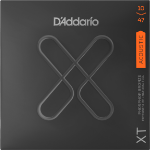
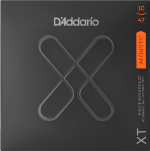
fix strings

diff --git a/data.js b/data.js
@@ -1,4 +1,4 @@
-var lastModified = new Date("2024-08-11T12:00:00+0000")
+var lastModified = new Date("2024-08-12T12:00:00+0000")
 var equipment_data = {}
 var equipment = [
    {
@@ -147,35 +147,6 @@ var equipment = [
    },
    {
       "category" : "Accessories",
-      "hide" : true,
-      "image" : true,
-      "instrument" : "guitar",
-      "link" : "https://www.ernieball.com/guitar-accessories/guitar-straps/comfort-collection-straps#P05328",
-      "make" : "Ernie Ball",
-      "model" : "Stretch Comfort (racer yellow)",
-      "notes" : [
-         "guitar",
-         "Flex Lock Strap Blocks"
-      ],
-      "type" : "Strap",
-      "year" : "2000s"
-   },
-   {
-      "category" : "Accessories",
-      "image" : true,
-      "instrument" : "guitar",
-      "link" : "https://www.ernieball.com/guitar-accessories/guitar-straps/polypro-guitar-straps#P04037",
-      "make" : "Ernie Ball",
-      "model" : "Polypro (black)",
-      "notes" : [
-         "guitar",
-         "Flex Lock Strap Blocks"
-      ],
-      "type" : "Strap",
-      "year" : "2000s"
-   },
-   {
-      "category" : "Accessories",
       "image" : true,
       "link" : "https://www.levysleathers.com/product/guitar-strap-m17ss-blk/",
       "make" : "Levys",
@@ -236,6 +207,35 @@ var equipment = [
       "model" : "PM14-DBR",
       "type" : "Strap",
       "year" : "2020"
+   },
+   {
+      "category" : "Accessories",
+      "image" : true,
+      "instrument" : "guitar",
+      "link" : "https://www.ernieball.com/guitar-accessories/guitar-straps/polypro-guitar-straps#P04037",
+      "make" : "Ernie Ball",
+      "model" : "Polypro (black)",
+      "notes" : [
+         "guitar",
+         "Flex Lock Strap Blocks"
+      ],
+      "type" : "Strap",
+      "year" : "2000s"
+   },
+   {
+      "category" : "Accessories",
+      "hide" : true,
+      "image" : true,
+      "instrument" : "guitar",
+      "link" : "https://www.ernieball.com/guitar-accessories/guitar-straps/comfort-collection-straps#P05328",
+      "make" : "Ernie Ball",
+      "model" : "Stretch Comfort (racer yellow)",
+      "notes" : [
+         "guitar",
+         "Flex Lock Strap Blocks"
+      ],
+      "type" : "Strap",
+      "year" : "2000s"
    },
    {
       "category" : "Accessories",
@@ -440,11 +440,35 @@ var equipment = [
    },
    {
       "category" : "Accessories",
+      "detail" : {
+         "Coating" : "XT",
+         "Gauge" : ".010, .014, .023, .030, .039, .047",
+         "Gauge Name" : "Extra Light",
+         "Material" : "92/8 Phosphor Bronze"
+      },
       "image" : true,
       "instrument" : "acoustic guitar",
       "link" : "https://www.daddario.com/products/guitar/acoustic-guitar/xt-phosphor-bronze/xtapb1047-xt-acoustic-phosphor-bronze-extra-light-10-47/",
       "make" : "D’Addario",
       "model" : "XTAPB1047",
+      "notes" : [
+         "acoustic guitar"
+      ],
+      "type" : "Strings"
+   },
+   {
+      "category" : "Accessories",
+      "detail" : {
+         "Coating" : "XT",
+         "Gauge" : ".012, .016, .024, .032, .042, .053",
+         "Gauge Name" : "Light",
+         "Material" : "92/8 Phosphor Bronze"
+      },
+      "image" : true,
+      "instrument" : "acoustic guitar",
+      "link" : "https://www.daddario.com/products/guitar/acoustic-guitar/xt-phosphor-bronze/xtapb1253-xt-acoustic-phosphor-bronze-light-12-532/",
+      "make" : "D’Addario",
+      "model" : "XTAPB1253",
       "notes" : [
          "acoustic guitar"
       ],
@@ -1435,14 +1459,14 @@ var equipment = [
       "make" : "Martin",
       "model" : "DX1",
       "notes" : [
-         "AA Lifespan 2.0 MA550T (2023-10-19)",
+         "XTAPB1356 (2023-10-19)",
          "Acetal Standard",
          "S1",
          "C1K",
          "M17SS-DBR",
          "Ellipse Matrix Blend"
       ],
-      "strings" : "AA Lifespan 2.0 MA550T",
+      "strings" : "XTAPB1356",
       "type" : "Acoustic Guitar",
       "year" : "2000"
    },
@@ -1482,13 +1506,13 @@ var equipment = [
       },
       "model" : "Escape Mark III",
       "notes" : [
-         "AA Lifespan 2.0 MA530T (2023-10-19)",
+         "XTAPB1047",
          "Acetal Standard",
          "S1",
          "C1K",
          "Polypro (black)"
       ],
-      "strings" : "AA Lifespan 2.0 MA530T",
+      "strings" : "XTAPB1047",
       "type" : "Acoustic Guitar",
       "year" : "2018"
    },
@@ -1529,9 +1553,9 @@ var equipment = [
       "model" : "Escape Mark III (black)",
       "not_mine" : true,
       "notes" : [
-         "AA Lifespan 2.0 MA530T"
+         "XTAPB1047"
       ],
-      "strings" : "AA Lifespan 2.0 MA530T",
+      "strings" : "XTAPB1047",
       "type" : "Acoustic Guitar",
       "year" : "2024"
    },
@@ -1615,7 +1639,7 @@ var equipment = [
       "make" : "Martin",
       "model" : "HD-28E Retro",
       "notes" : [
-         "AA Lifespan 2.0 MA550T (2023-10-19)",
+         "XTAPB1356 (2023-10-19)",
          "Acetal Standard",
          "S1",
          "C1K",
@@ -1623,7 +1647,7 @@ var equipment = [
          "445",
          "F1 Aura+"
       ],
-      "strings" : "AA Lifespan 2.0 MA550T",
+      "strings" : "XTAPB1356",
       "type" : "Acoustic Guitar",
       "year" : "2012"
    },
@@ -1683,9 +1707,9 @@ var equipment = [
       "model" : "Songmaker DR-100",
       "not_mine" : true,
       "notes" : [
-         "AA Lifespan 2.0 MA550T (2024-03-16)"
+         "XTAPB1356 (2024-03-16)"
       ],
-      "strings" : "AA Lifespan 2.0 MA550T",
+      "strings" : "XTAPB1356",
       "type" : "Acoustic Guitar",
       "year" : "2021"
    },
@@ -1920,7 +1944,7 @@ var equipment = [
          "Truss Rod Cover" : "“Bell Shaped”; 2-layer (Black/White); 60s-era E",
          "Tuning Machines" : "Grover® Rotomatic® 18:1"
       },
-      "featured": true,
+      "featured" : true,
       "image" : true,
       "link" : "https://www.epiphone.com/en-US/Electric-Guitar/EPINA3562/Ebony",
       "make" : "Epiphone",
@@ -1937,6 +1961,52 @@ var equipment = [
       "strings" : "EXL110",
       "type" : "Electric Guitar",
       "year" : "2021"
+   },
+   {
+      "category" : "Instruments",
+      "detail" : {
+         "Battery Compartment" : "2 x AAA, 1 x 9V",
+         "Binding" : "6-ply Cream/Black",
+         "Body Depth" : "1.63\"",
+         "Body Material" : "Carved Top Mahogany",
+         "Body Width" : "10.5\"",
+         "Color" : "Black",
+         "Electronics" : "Active preamp, volume/tone, 1/8\" aux in, 1/8\" headphone out, clean/boost/overdrive/distortion",
+         "Fingerboard Material" : "Black Walnut",
+         "Finish" : "Vintage Black Matte",
+         "Fret Count" : "22",
+         "Frets" : "Jumbo Profile",
+         "Inputs" : "1/8\" stereo",
+         "Neck Material" : "Mahogany",
+         "Neck Radius" : "15.75\"",
+         "Neck Width at Nut" : "1.63\"",
+         "Pickups" : "ESP ALH-200B Active Humbucker",
+         "Scale Length" : "24.75\"",
+         "Serial" : "M3-07576",
+         "Total Depth" : "2.75\"",
+         "Total Length" : "30\"",
+         "Truss Rod" : "Adjustable",
+         "Tuning Machines" : "Gold Locking",
+         "Weight" : "5lbs 4oz"
+      },
+      "featured" : true,
+      "hide" : true,
+      "image" : true,
+      "link" : "https://travelerguitar.com/products/ltd-ec-1?variant=39665627136085",
+      "make" : "Traveler",
+      "manuals" : {
+         "Manual" : "EC-1_Manual.pdf"
+      },
+      "model" : "LTD EC-1",
+      "notes" : [
+         "EXL110",
+         "Acetal Standard",
+         "S1",
+         "C1K",
+         "Stretch Comfort (racer yellow)"
+      ],
+      "strings" : "EXL110",
+      "type" : "Electric Guitar"
    },
    {
       "category" : "Instruments",
@@ -2044,52 +2114,6 @@ var equipment = [
       "strings" : "EXL110",
       "type" : "Electric Guitar",
       "year" : "2003"
-   },
-   {
-      "category" : "Instruments",
-      "detail" : {
-         "Battery Compartment" : "2 x AAA, 1 x 9V",
-         "Binding" : "6-ply Cream/Black",
-         "Body Depth" : "1.63\"",
-         "Body Material" : "Carved Top Mahogany",
-         "Body Width" : "10.5\"",
-         "Color" : "Black",
-         "Electronics" : "Active preamp, volume/tone, 1/8\" aux in, 1/8\" headphone out, clean/boost/overdrive/distortion",
-         "Fingerboard Material" : "Black Walnut",
-         "Finish" : "Vintage Black Matte",
-         "Fret Count" : "22",
-         "Frets" : "Jumbo Profile",
-         "Inputs" : "1/8\" stereo",
-         "Neck Material" : "Mahogany",
-         "Neck Radius" : "15.75\"",
-         "Neck Width at Nut" : "1.63\"",
-         "Pickups" : "ESP ALH-200B Active Humbucker",
-         "Scale Length" : "24.75\"",
-         "Serial" : "M3-07576",
-         "Total Depth" : "2.75\"",
-         "Total Length" : "30\"",
-         "Truss Rod" : "Adjustable",
-         "Tuning Machines" : "Gold Locking",
-         "Weight" : "5lbs 4oz"
-      },
-      "featured": true,
-      "hide" : true,
-      "image" : true,
-      "link" : "https://travelerguitar.com/products/ltd-ec-1?variant=39665627136085",
-      "make" : "Traveler",
-      "manuals" : {
-         "Manual" : "EC-1_Manual.pdf"
-      },
-      "model" : "LTD EC-1",
-      "notes" : [
-         "EXL110",
-         "Acetal Standard",
-         "S1",
-         "C1K",
-         "Stretch Comfort (racer yellow)"
-      ],
-      "strings" : "EXL110",
-      "type" : "Electric Guitar"
    },
    {
       "category" : "Instruments",

diff --git a/md5s.js b/md5s.js
@@ -1,6 +1,6 @@
 const md5s = {
-   "./code.js" : "5f0bb5b472f311d772046263ef9ddc27",
-   "./data.js" : "f8f04ed234dacb512e26af2263f55af8",
+   "./code.js" : "3ce33aa92efe432322d69c5397f7befd",
+   "./data.js" : "f36bee7da13a4c1ebba5186825bb3a5e",
    "./footer.js" : "34dc7c2d96a5c9742b503e29bb75ff91",
    "./images/445.png" : "cb2806a143a952ae2dc2a5bbd592c5c2",
    "./images/7100.png" : "e1a00e604cb4160911e780a84432f608",
@@ -274,7 +274,8 @@ const md5s = {
    "./images/sm/variax700-sm.png" : "36050b02c3d8fc965da9c106d0373605",
    "./images/sm/vp2611-sm.png" : "384d77d9e336a71b4ee2366e81f2ff2d",
    "./images/sm/x40-sm.png" : "1e845607b20345beab13a5af9d9baca7",
-   "./images/sm/xtapb1047-sm.png" : "a96459c17fb58e5625a36b9fbfe038bd",
+   "./images/sm/xtapb1047-sm.png" : "d977d9b10ccf0ca0ba3b781896d5c5b7",
+   "./images/sm/xtapb1253-sm.png" : "2b1c9cc869a613d844bcae56b8852437",
    "./images/sm/xtapb1356-sm.png" : "601adf0dd6861a47f892a3d1e2975e40",
    "./images/sm/xte1046-sm.png" : "0c87a1e83968a4a1f20939f701a5a8cb",
    "./images/sm/ydp223-sm.png" : "0dc0c35a0346d1a0f4e38e0cd0f30474",
@@ -300,7 +301,8 @@ const md5s = {
    "./images/variax700.png" : "53c232662c0d67f73e0727a9bd1aefb7",
    "./images/vp2611.png" : "b1df38243175067114e65badc81199ca",
    "./images/x40.png" : "81dbb4ad3bb9a37b1f77afe7f31ad00a",
-   "./images/xtapb1047.png" : "14157591ec0cc5512910cb8876977dbc",
+   "./images/xtapb1047.png" : "0f363c8b436ca9fb701bc68d83389125",
+   "./images/xtapb1253.png" : "c483b0fde64f653f2af105a69c48f42a",
    "./images/xtapb1356.png" : "66d1a3101a88af1dbc209fa6cbf6cecc",
    "./images/xte1046.png" : "a835dc119c9ee7d152cab9d852281973",
    "./images/ydp223.png" : "3833cc426a865369e32b47ec7844ea2f",

diff --git a/index.html b/index.html
@@ -22,9 +22,9 @@
     <script type="text/javascript" src="https://cdn.datatables.net/v/bs4-4.1.1/jq-3.6.0/dt-1.12.1/b-2.2.3/fh-3.2.4/r-2.3.0/datatables.min.js"></script>
 
     <link rel="stylesheet" type="text/css" href="./style.css?776981cdb6bee4e8398889bccc2677ba">
-    <script class="file" type="text/javascript" src="./md5s.js?ed2a24cf5db9295a2a8972bbfafd9a71"></script>
-    <script class="file" type="text/javascript" src="./data.js?f8f04ed234dacb512e26af2263f55af8"></script>
-    <script class="file" type="text/javascript" src="./code.js?5f0bb5b472f311d772046263ef9ddc27"></script>
+    <script class="file" type="text/javascript" src="./md5s.js?1619c7357de0683c41cecae423839efb"></script>
+    <script class="file" type="text/javascript" src="./data.js?f36bee7da13a4c1ebba5186825bb3a5e"></script>
+    <script class="file" type="text/javascript" src="./code.js?3ce33aa92efe432322d69c5397f7befd"></script>
     <meta name="apple-mobile-web-app-capable" content="yes" />
     <meta name="apple-mobile-web-app-title" content="Gear 🎸🤘🏼" />
 

diff --git a/code.js b/code.js
@@ -160,6 +160,10 @@ function equipmentInit() {
       var thisData = Array.isArray(x['notes']) ? x['notes'] : [x['notes']];
       var found = false;
       thisData.forEach(y => {
+        var matches = y.match(/^(.+?)( \(\d\d\d\d-\d\d-\d\d\))$/);
+        if (matches && matches[2]) {
+          y = matches[1];
+        }
         if (equipment_data[y]) {
           foundNote[y] = true;
           found = true;
